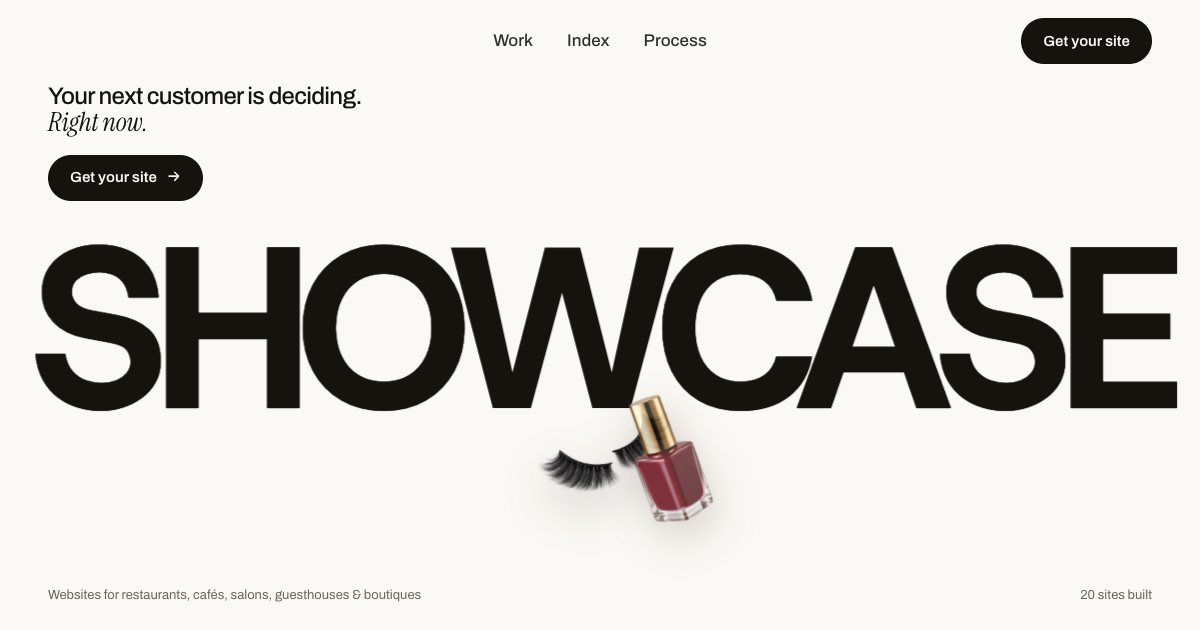
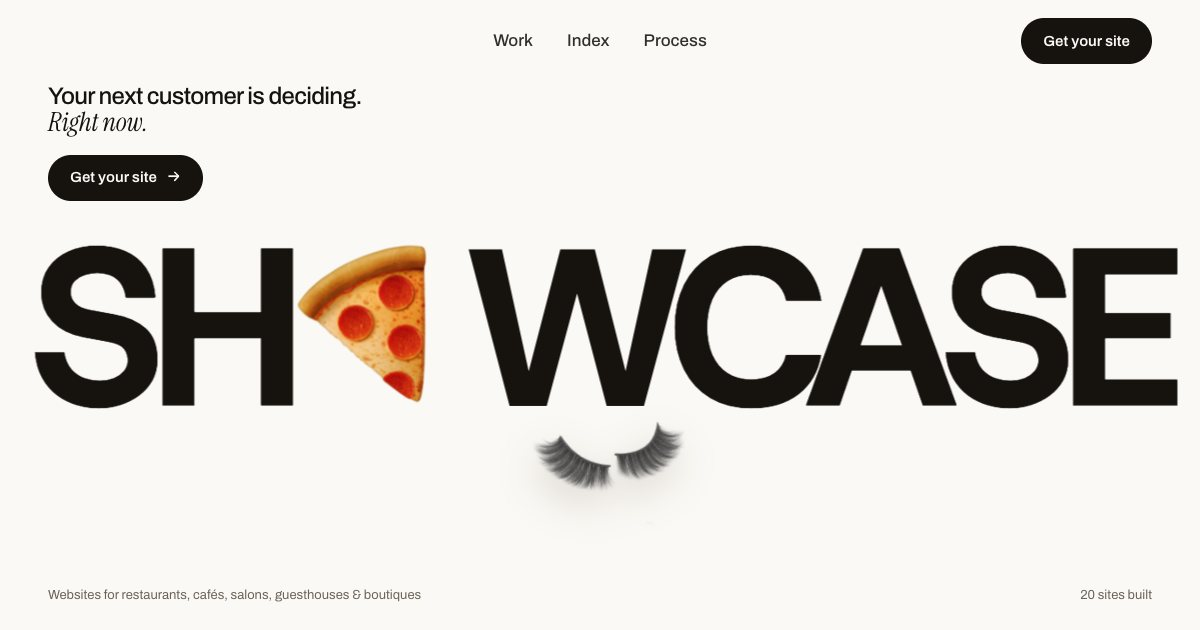
Showcase: emoji O, earlier search headline, ribbon spiral

diff --git a/index.html b/index.html
@@ -63,6 +63,8 @@ em{font:400 1.06em/.95 var(--serif);font-style:italic;letter-spacing:-.01em}
 .hero__lede{margin:0;font:500 clamp(22px,2vw,32px)/1.08 var(--sans);letter-spacing:-.03em}
 .hero__lede em{font-size:1.1em}
 .hero__word{position:absolute;left:50%;top:52%;translate:-50% -50%;margin:0;z-index:1;white-space:nowrap;font:800 18vw/.8 var(--title);letter-spacing:-.06em;color:var(--ink);will-change:transform,opacity;user-select:none}
+.emo{display:inline-block;width:.78em;height:.74em;vertical-align:baseline;position:relative;perspective:600px}
+.emo__in{position:absolute;left:50%;bottom:-.02em;translate:-50% 0;font-size:.72em;line-height:1;font-family:"Apple Color Emoji","Segoe UI Emoji","Noto Color Emoji",sans-serif;letter-spacing:0;will-change:transform}
 .hero__trail{position:absolute;inset:0;z-index:2;pointer-events:none;overflow:hidden}
 .hero__trail img{position:absolute;left:0;top:0;width:var(--s);height:auto;will-change:transform,opacity;filter:drop-shadow(0 18px 22px rgba(40,25,10,.22))}
 .hero__foot{position:absolute;left:var(--gutter);right:var(--gutter);bottom:clamp(20px,4vh,36px);display:flex;justify-content:space-between;gap:16px;font-size:13px;color:var(--ink-soft);z-index:3}
@@ -70,7 +72,7 @@ em{font:400 1.06em/.95 var(--serif);font-style:italic;letter-spacing:-.01em}
 .center img{width:100%;aspect-ratio:4/5;object-fit:cover;border-radius:14px;box-shadow:0 30px 60px -30px rgba(40,25,10,.55)}
 .center span{display:block;margin-top:12px;text-align:center;font-size:13px;font-weight:600}
 /* ---------- 2 · the search ---------- */
-.miss{position:relative;height:320vh;background:var(--canvas)}
+.miss{position:relative;height:250vh;background:var(--canvas)}
 .miss__pin{position:sticky;top:0;height:100vh;height:100svh;display:grid;grid-template-columns:minmax(0,1fr) minmax(0,1fr);align-items:center;gap:clamp(24px,5vw,80px);padding:90px var(--gutter) 40px;overflow:hidden}
 .phone{justify-self:center;width:min(100%,430px);background:#fff;border-radius:28px;padding:22px 18px;box-shadow:0 30px 70px -40px rgba(40,25,10,.5),0 0 0 1px var(--line)}
 .search{display:flex;align-items:center;gap:10px;height:50px;padding:0 16px;border-radius:999px;background:var(--cream);font-size:16px}
@@ -173,8 +175,11 @@ em{font:400 1.06em/.95 var(--serif);font-style:italic;letter-spacing:-.01em}
 .em__w--a{right:2vw;bottom:2vh}
 .em__w--b{left:4vw;top:4vh}
 .em__helix{position:absolute;left:0;top:0;transform-style:preserve-3d;will-change:transform}
-.hcard{position:absolute;left:0;top:0;backface-visibility:hidden;-webkit-backface-visibility:hidden;width:var(--hw);aspect-ratio:16/10;margin:calc(var(--hw) * -.3125) 0 0 calc(var(--hw) * -.5);border-radius:6px;overflow:hidden;background:#fff;box-shadow:0 20px 40px -26px rgba(40,25,10,.55)}
-.hcard img{width:100%;height:100%;object-fit:cover;object-position:top}
+.hcard{position:absolute;left:0;top:0;width:var(--hw);aspect-ratio:16/10;margin:calc(var(--hw) * -.3125) 0 0 calc(var(--hw) * -.5);transform-style:preserve-3d}
+.hcard > *{position:absolute;inset:0;border-radius:4px;overflow:hidden;backface-visibility:hidden;-webkit-backface-visibility:hidden}
+.hcard img{width:100%;height:100%;object-fit:cover;object-position:top;box-shadow:0 14px 28px -20px rgba(40,25,10,.55)}
+.hcard b{transform:rotateY(180deg)}
+.hcard b img{opacity:.5;filter:saturate(.7)}
 .em__sub{position:absolute;left:50%;top:50%;translate:-50% -50%;margin:0;font:500 12px/1.4 var(--sans);letter-spacing:.08em;text-transform:uppercase;text-align:center;color:var(--ink-soft);opacity:0}
 .em__collage{position:absolute;inset:0}
 .ccol{position:absolute;margin:0;width:var(--w);border-radius:8px;overflow:hidden;background:#fff;box-shadow:0 30px 60px -38px rgba(40,25,10,.6),0 0 0 1px var(--line);opacity:0;will-change:transform,opacity}
@@ -323,7 +328,7 @@ html.has-cur:not(.cur-native), html.has-cur:not(.cur-native) *{cursor:none!impor
           <p class="hero__lede">Your next customer is deciding.<br><em>Right now.</em></p>
           <a class="pill hero__cta" data-wa href="#contact">Get your site <span aria-hidden="true">→</span></a>
         </div>
-        <h1 class="hero__word" id="heroWord" aria-label="Showcase">SHOWCASE</h1>
+        <h1 class="hero__word" id="heroWord" aria-label="Showcase">SH<span class="emo" aria-hidden="true"><span class="emo__in" id="emo">💅</span></span>WCASE</h1>
         <div class="hero__trail" id="trail" aria-hidden="true"></div>
         <div class="hero__foot">
           <span>Websites for restaurants, cafés, salons, guesthouses &amp; boutiques</span>
@@ -354,7 +359,6 @@ html.has-cur:not(.cur-native), html.has-cur:not(.cur-native) *{cursor:none!impor
   <section class="trust" id="about" aria-labelledby="trustTitle">
     <div class="trust__head"><h2 id="trustTitle">Built for the places people remember, and the businesses behind them.</h2>
       <p class="trust__note"><b>Showcase</b> is a small studio in Morocco building websites that feel like walking in: your real space, your menu or services, booking, fast on every phone.</p>
-      <p class="trust__count">20 sites</p>
     </div>
     <div class="trust__field" aria-hidden="true"><div class="trust__grid" id="logoGrid"></div></div>
   </section>
@@ -480,6 +484,16 @@ function prog(el){ const r = el.getBoundingClientRect(); const travel = r.height
 /* ======================= 1 · stage ======================= */
 const stage = $('#stage'), hero = $('#hero'), heroWord = $('#heroWord'), heroTop = hero.querySelector('.hero__top'), heroFoot = hero.querySelector('.hero__foot'), center = $('#center'), stageLine = $('#stageLine'), nav = $('#nav');
 
+/* ---------- the O spins through what our clients sell ---------- */
+const EMOJI = ['💅','🍣','🍕','🥐','🍰','🍸','🍷','☕','🍛','🍵','🔑','🧘','🛋','🧁'];
+const emo = $('#emo'); let emoI = 0;
+if (!reduce) setInterval(() => {
+  emo.animate([{ transform: 'rotateY(0deg) scale(1)' }, { transform: 'rotateY(90deg) scale(.85)' }], { duration: 170, easing: 'ease-in' }).onfinish = () => {
+    emo.textContent = EMOJI[++emoI % EMOJI.length];
+    emo.animate([{ transform: 'rotateY(-90deg) scale(.85)' }, { transform: 'rotateY(0deg) scale(1)' }], { duration: 260, easing: 'cubic-bezier(.23,1,.32,1)' });
+  };
+}, 900);
+
 /* ---------- hero trail: the things our clients sell follow the pointer ---------- */
 const ITEMS = ['lashes','polish','nigiri','maki','pizza','croissant','cake','cocktail','wine','tajine','coffee','curry','tea','key','pilates','stool'];
 const trail = $('#trail');
@@ -583,18 +597,18 @@ function measureFeed(){ const r = feedList.children[0]; if (r) { rowH = r.offset
 const easeInOut = x => x < .5 ? 8*x*x*x*x : 1 - Math.pow(-2*x + 2, 4)/2;
 function renderMiss(){
   const p = reduce ? 1 : prog(miss);
-  qEl.textContent = QUERY.slice(0, Math.round(QUERY.length * smooth(0.02, 0.16, p)));
-  feed.classList.toggle('on', p > 0.17 || reduce);
+  qEl.textContent = QUERY.slice(0, Math.round(QUERY.length * smooth(0.0, 0.1, p)));
+  feed.classList.toggle('on', p > 0.1 || reduce);
   const max = (FEED.length - 3) * rowH;
-  const target = easeInOut(clamp((p - 0.2) / 0.42)) * max;
+  const target = easeInOut(clamp((p - 0.12) / 0.5)) * max;
   const prev = feedY;
   feedY += (target - feedY) * (reduce ? 1 : 0.22);
   const v = Math.abs(feedY - prev);
   blurStd.setAttribute('stdDeviation', `0 ${Math.min(26, v * 0.11).toFixed(1)}`);
   feedList.style.transform = `translateY(${-feedY}px)`;
-  missLines[0].classList.toggle('on', p > 0.6);
-  missLines[1].classList.toggle('on', p > 0.72);
-  missP.classList.toggle('on', p > 0.8);
+  missLines[0].classList.toggle('on', p > 0.04 || reduce);
+  missLines[1].classList.toggle('on', p > 0.3 || reduce);
+  missP.classList.toggle('on', p > 0.42 || reduce);
 }
 
 /* ======================= 3 · logo field ======================= */
@@ -735,20 +749,21 @@ new IntersectionObserver((es, io) => es.forEach(e => { if (e.isIntersecting){ e.
 /* ======================= 7 · design in motion → spiral → collage → logo ======================= */
 const end = $('#contact'), emRig = $('#emRig'), helix = $('#helix'), wA = $('#wA'), wB = $('#wB'), emSub = $('#emSub'), collage = $('#collage'), emCta = $('#emCta'), foot = $('#foot'), emFinal = $('#emFinal');
 const HELIX = ['kohl','sirocco','nacre','kaze','solen','huitieme','kumo','jacaranda','alize','le41','firouz','nour','zvezda','bottega','ambar','nagi','lumi','detour','kesari','kuno'];
-helix.innerHTML = HELIX.map(k => `<div class="hcard"><img src="assets/shot/${k}.webp" alt="" loading="lazy"></div>`).join('');
+const COIL = Array.from({ length: 30 }, (_, i) => HELIX[i % HELIX.length]);
+helix.innerHTML = COIL.map(k => `<div class="hcard"><img src="assets/shot/${k}.webp" alt="" loading="lazy"><b><img src="assets/shot/${k}.webp" alt="" loading="lazy"></b></div>`).join('');
 const hcards = [...helix.children];
 const SIX = [['kohl',27,30,25],['solen',50,27,17],['kumo',73,30,23],['kesari',25,68,22],['sirocco',49,72,19],['jacaranda',73,68,24]];
 const SIX_M = [['kohl',27,26,44],['solen',73,24,40],['kumo',26,50,40],['kesari',74,52,44],['sirocco',27,76,42],['jacaranda',73,78,42]];
 let ccards = [];
 function buildEnd(){
   const narrow = isNarrow();
-  const HW = narrow ? VW * 0.36 : Math.min(VW * 0.16, 280), RAD = narrow ? VW * 0.48 : Math.min(VW * 0.36, 600);
-  // angle between cards so neighbours never touch, and enough rise per turn that rows never overlap
-  const STEP = 2 * Math.asin(Math.min(0.99, (HW * 0.58) / RAD)) * 180 / Math.PI;
-  const perTurn = 360 / STEP, PITCH = (HW * 0.625 * 1.25) / perTurn;
+  // a continuous ribbon: cards edge to edge around a cylinder, each turn sitting just below the last
+  const PER = narrow ? 12 : 16, HW = narrow ? VW * 0.3 : Math.min(VW * 0.14, 230), GAP = 4;
+  const RAD = (PER * (HW + GAP)) / (2 * Math.PI), STEP = 360 / PER;
+  const PITCH = (HW * 0.625 * 2.3) / PER;   // clear air between turns, so it reads as one winding ribbon
   helix.style.setProperty('--hw', HW + 'px');
   hcards.forEach((c, i) => c.style.transform = `translateY(${-i * PITCH}px) rotateY(${i * STEP}deg) translateZ(${RAD}px)`);
-  helix.dataset.len = HELIX.length * PITCH;
+  helix.dataset.len = hcards.length * PITCH;
   collage.innerHTML = (narrow ? SIX_M : SIX).map(([k, x, y, w], i) => `<figure class="ccol" style="--w:${w}vw;left:${x}%;top:${y}%"><img src="assets/shot/${k}.webp" alt="" loading="lazy"></figure>`).join('');
   ccards = [...collage.children].map((el, i) => ({ el, i, r: (i % 2 ? 1 : -1) * (6 + i * 2) }));
 }
@@ -766,8 +781,8 @@ function renderEnd(){
   // B · the spiral rises from below, turns the whole scene, and leaves through the top
   const len = +helix.dataset.len || 0;
   const rise = spin;
-  emRig.style.transform = `rotateY(${spin * 200}deg)`;
-  helix.style.transform = `rotateZ(-11deg) rotateX(14deg) translateY(${VH * 0.75 + len * 0.5 - rise * (VH * 1.5 + len)}px) rotateY(${spin * 260}deg)`;
+  emRig.style.transform = `rotateY(${spin * 40}deg)`;
+  helix.style.transform = `rotateZ(-14deg) rotateX(16deg) translateY(${VH * 0.7 + len * 0.5 - rise * (VH * 1.4 + len)}px) rotateY(${spin * 300}deg)`;
   helix.style.opacity = (p > 0.11 && p < 0.6) ? 1 : 0;
   // C · six sites land one by one, as a loose collage
   const away = smooth(0.8, 0.86, p);
